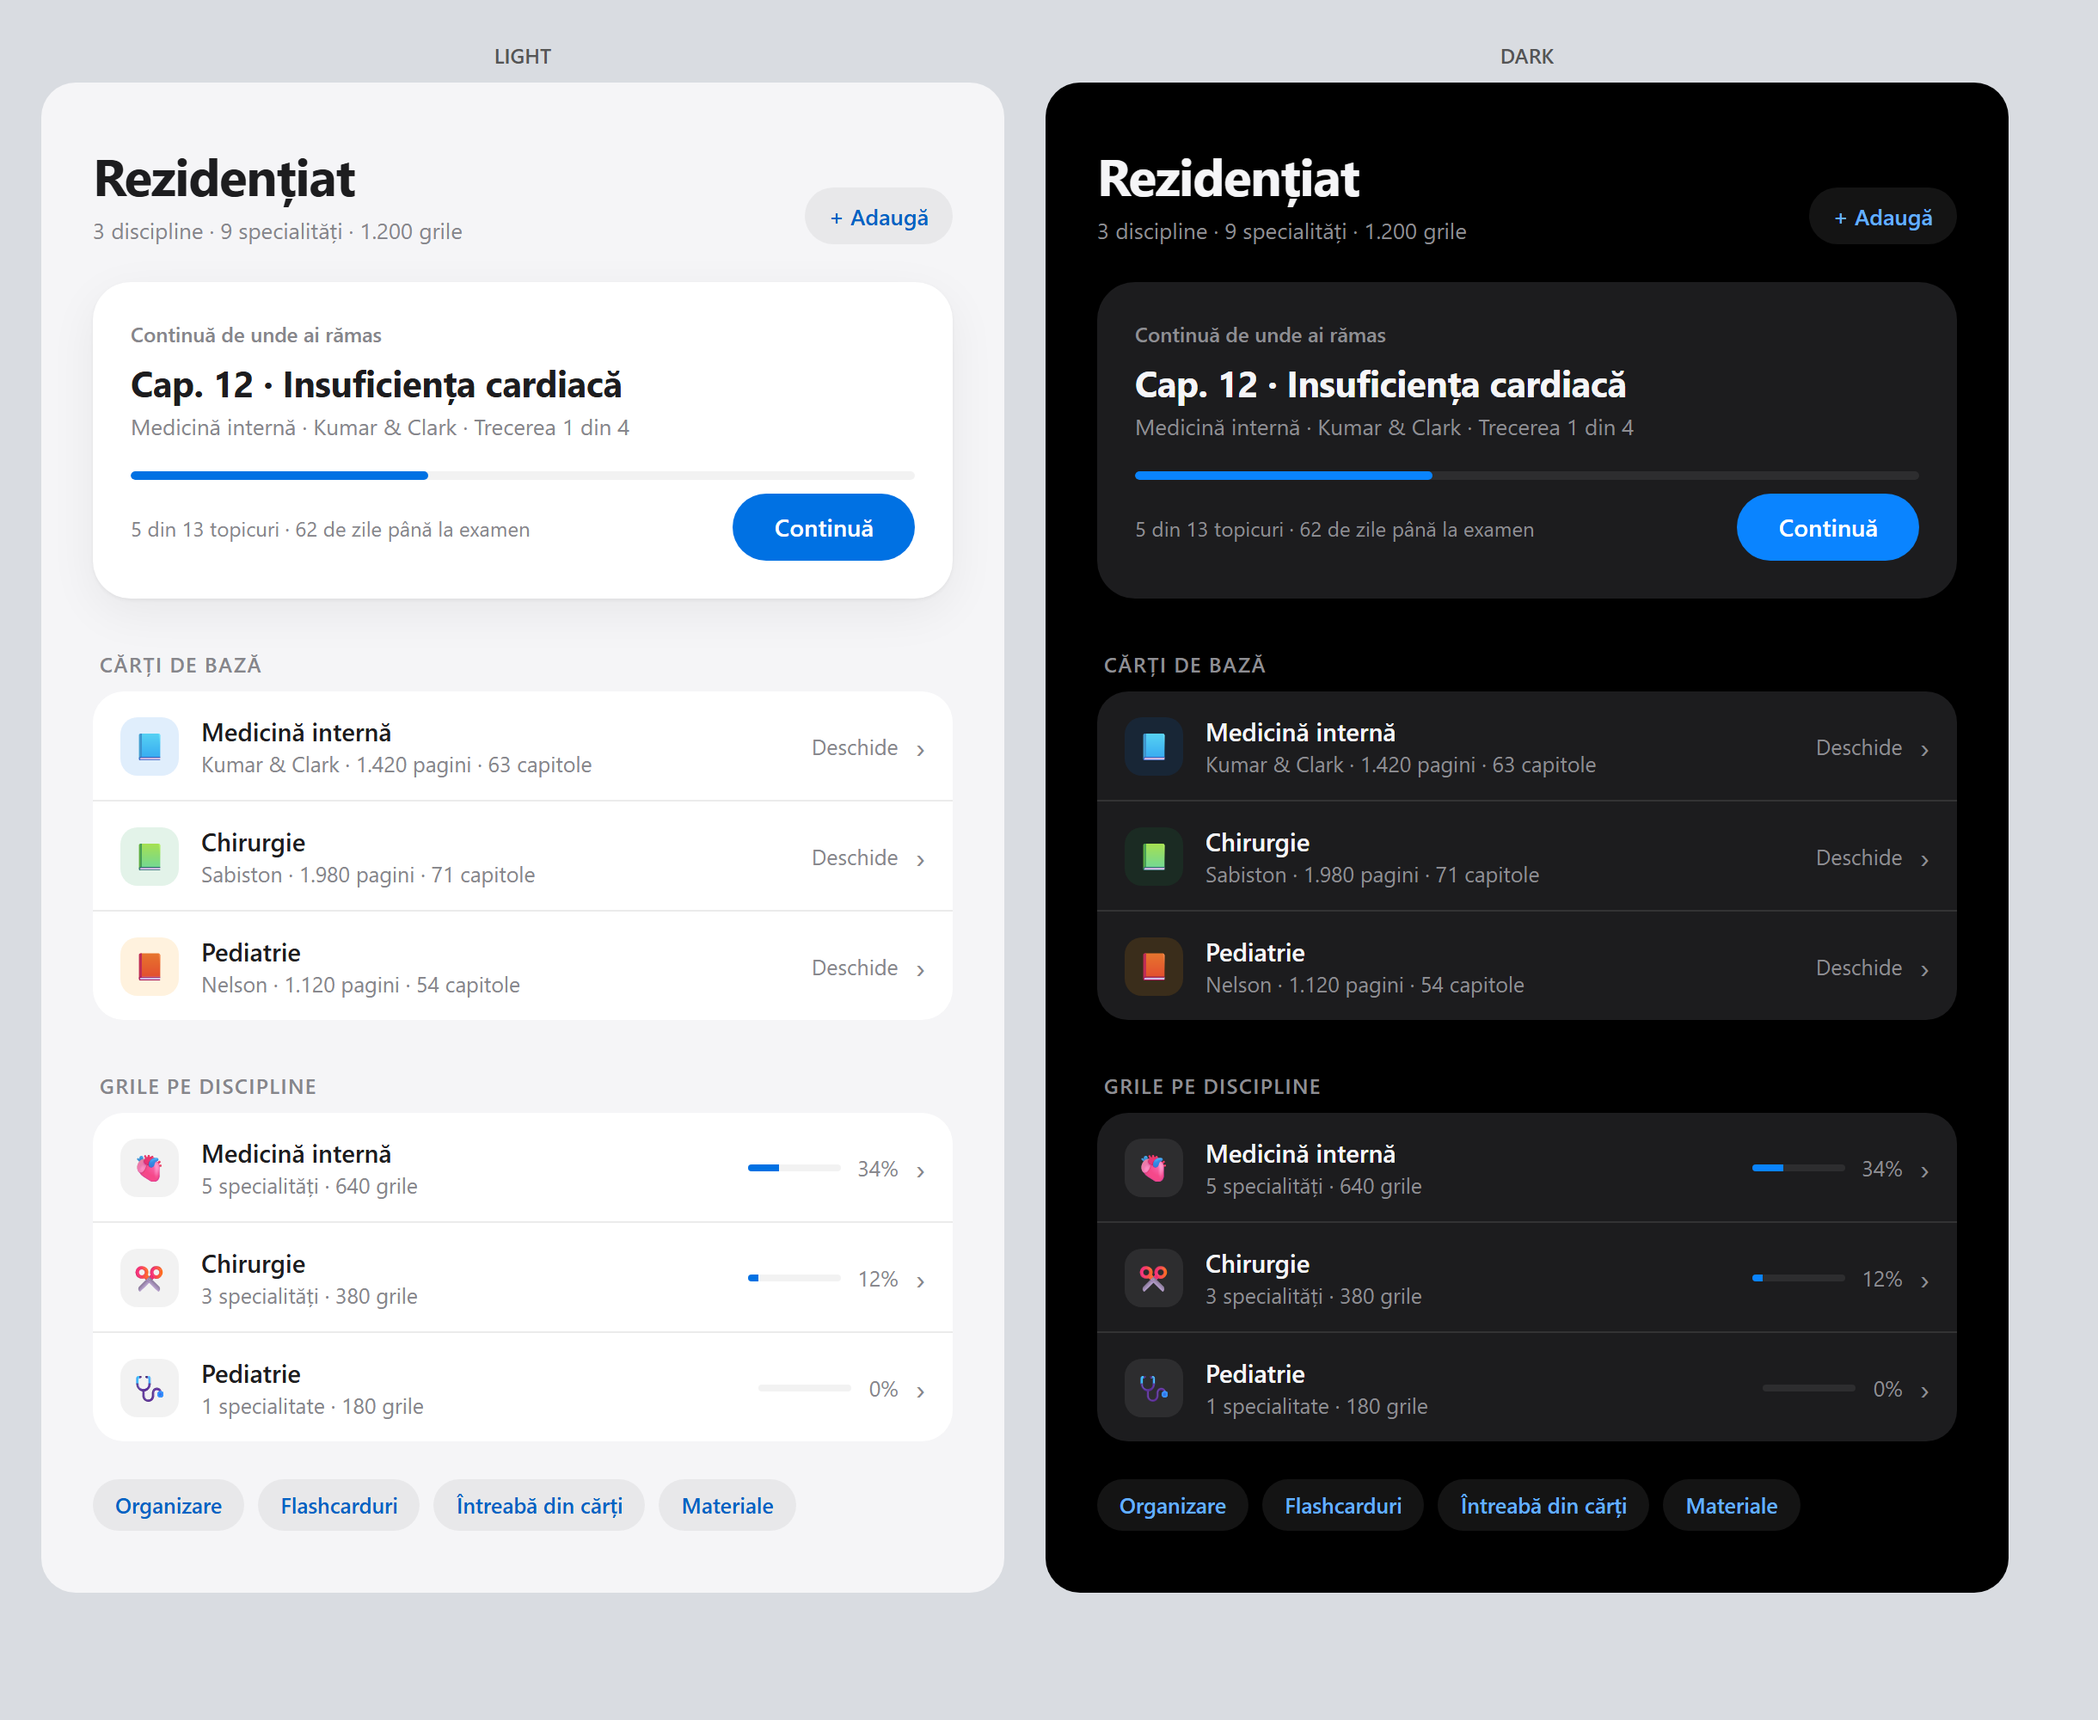
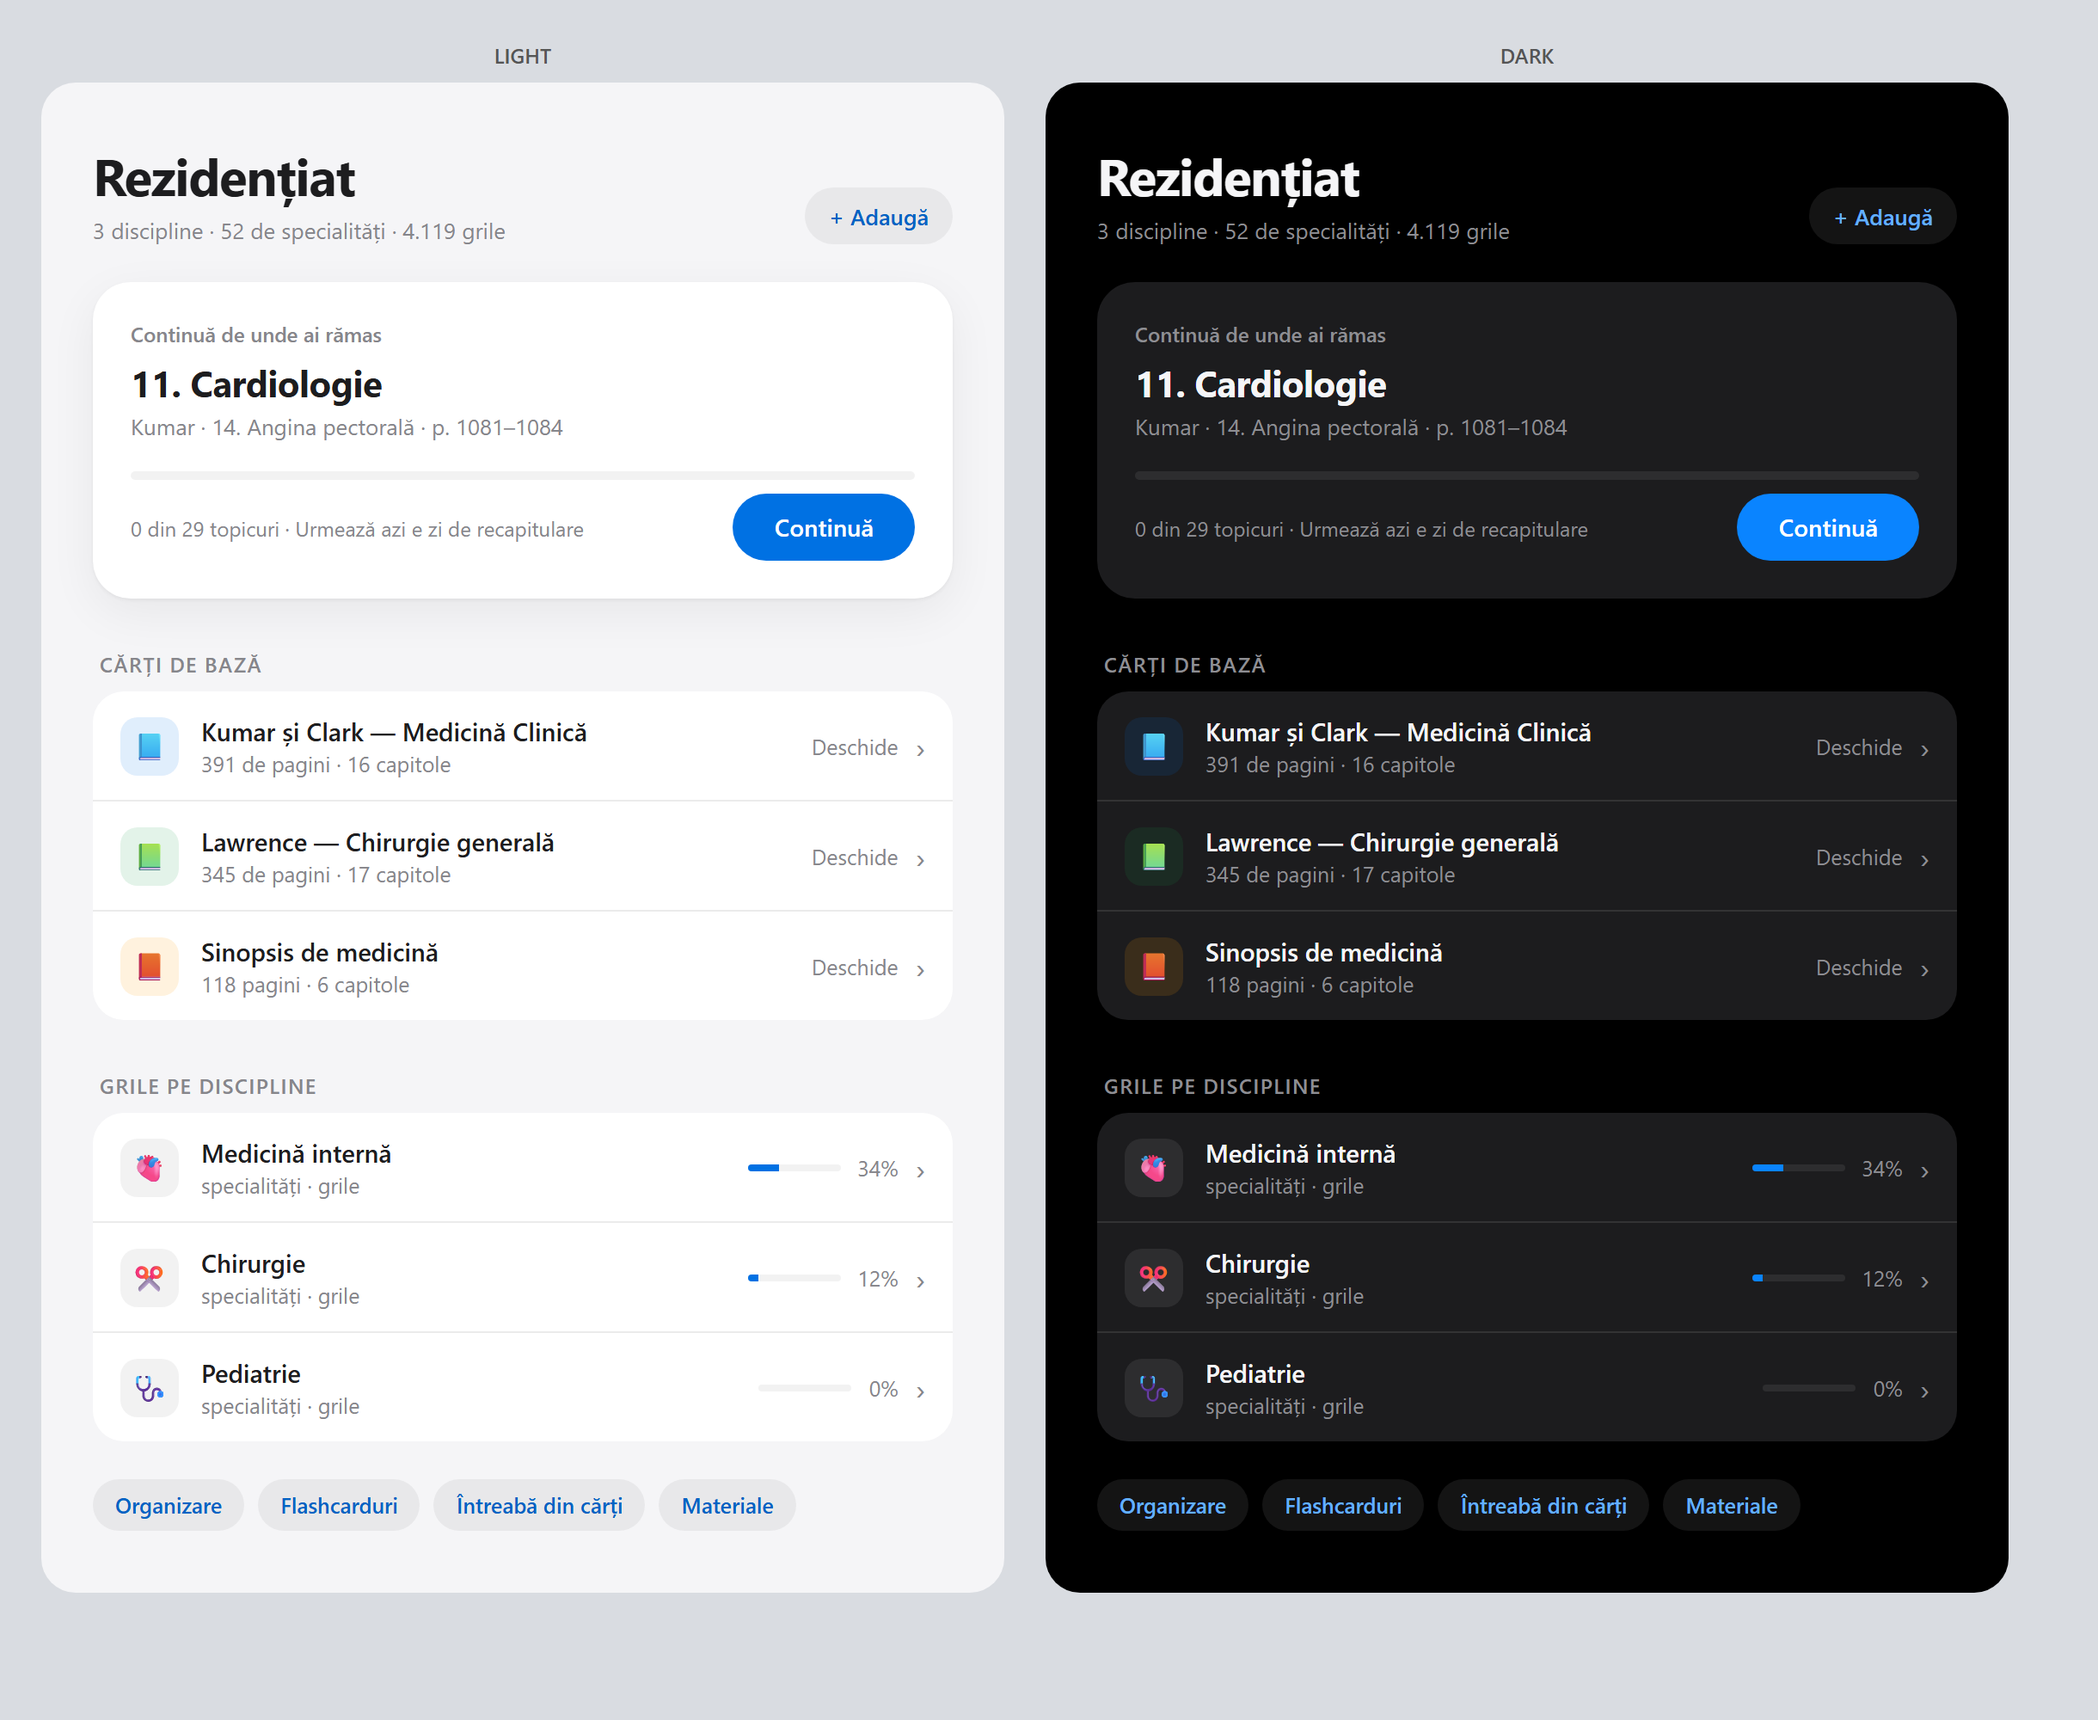
docs(preview): mockup Rezidențiat cu datele reale

diff --git a/previews/rezidentiat-1.4/mockup.html b/previews/rezidentiat-1.4/mockup.html
@@ -12,7 +12,7 @@ h1{font-size:30px;font-weight:700;letter-spacing:-.02em}
 .eyebrow{font-size:12px;color:var(--t3);font-weight:500}
 .hero h2{font-size:21px;font-weight:650;letter-spacing:-.01em;margin:6px 0 3px}
 .hero p{font-size:13px;color:var(--t3)}
-.bar{height:5px;border-radius:9px;background:var(--fill);margin:18px 0 8px;overflow:hidden}.bar i{display:block;height:100%;width:38%;background:var(--acc);border-radius:9px}
+.bar{height:5px;border-radius:9px;background:var(--fill);margin:18px 0 8px;overflow:hidden}.bar i{display:block;height:100%;width:0%;background:var(--acc);border-radius:9px}
 .row{display:flex;align-items:center;justify-content:space-between;gap:12px}
 .row small{font-size:12px;color:var(--t3)}
 .cta{background:var(--acc);color:#fff;font-weight:600;font-size:14px;border-radius:99px;padding:10px 24px}
@@ -31,55 +31,55 @@ h3{font-size:12px;font-weight:600;letter-spacing:.06em;text-transform:uppercase;
 .cap{font:600 12px system-ui;text-align:center;color:#555;margin-bottom:8px}
 </style></head><body>
 <div><div class="cap">LIGHT</div><div class="pane">
-<header><div><h1>Rezidențiat</h1><div class="sub">3 discipline · 9 specialități · 1.200 grile</div></div><div class="ghost">+ Adaugă</div></header>
+<header><div><h1>Rezidențiat</h1><div class="sub">3 discipline · 52 de specialități · 4.119 grile</div></div><div class="ghost">+ Adaugă</div></header>
 
 <section class="hero">
  <div class="eyebrow">Continuă de unde ai rămas</div>
- <h2>Cap. 12 · Insuficiența cardiacă</h2>
- <p>Medicină internă · Kumar &amp; Clark · Trecerea 1 din 4</p>
+ <h2>11. Cardiologie</h2>
+ <p>Kumar · 14. Angina pectorală · p. 1081–1084</p>
  <div class="bar"><i></i></div>
- <div class="row"><small>5 din 13 topicuri · 62 de zile până la examen</small><div class="cta">Continuă</div></div>
+ <div class="row"><small>0 din 29 topicuri · Urmează azi e zi de recapitulare</small><div class="cta">Continuă</div></div>
 </section>
 
 <h3>Cărți de bază</h3>
 <div class="list">
- <div class="item"><div class="ic" style="background:#0071e31f">📘</div><div><b>Medicină internă</b><span class="d">Kumar &amp; Clark · 1.420 pagini · 63 capitole</span></div><div class="go">Deschide <span class="chev">›</span></div></div>
- <div class="item"><div class="ic" style="background:#1a9b4b1f">📗</div><div><b>Chirurgie</b><span class="d">Sabiston · 1.980 pagini · 71 capitole</span></div><div class="go">Deschide <span class="chev">›</span></div></div>
- <div class="item"><div class="ic" style="background:#ff9f0a22">📙</div><div><b>Pediatrie</b><span class="d">Nelson · 1.120 pagini · 54 capitole</span></div><div class="go">Deschide <span class="chev">›</span></div></div>
+ <div class="item"><div class="ic" style="background:#0071e31f">📘</div><div><b>Kumar și Clark — Medicină Clinică</b><span class="d">391 de pagini · 16 capitole</span></div><div class="go">Deschide <span class="chev">›</span></div></div>
+ <div class="item"><div class="ic" style="background:#1a9b4b1f">📗</div><div><b>Lawrence — Chirurgie generală</b><span class="d">345 de pagini · 17 capitole</span></div><div class="go">Deschide <span class="chev">›</span></div></div>
+ <div class="item"><div class="ic" style="background:#ff9f0a22">📙</div><div><b>Sinopsis de medicină</b><span class="d">118 pagini · 6 capitole</span></div><div class="go">Deschide <span class="chev">›</span></div></div>
 </div>
 
 <h3>Grile pe discipline</h3>
 <div class="list">
- <div class="item"><div class="ic" style="background:var(--fill)">🫀</div><div><b>Medicină internă</b><span class="d">5 specialități · 640 grile</span></div><div class="go"><div class="mini"><i style="width:34%"></i></div>34%<span class="chev">›</span></div></div>
- <div class="item"><div class="ic" style="background:var(--fill)">✂</div><div><b>Chirurgie</b><span class="d">3 specialități · 380 grile</span></div><div class="go"><div class="mini"><i style="width:12%"></i></div>12%<span class="chev">›</span></div></div>
- <div class="item"><div class="ic" style="background:var(--fill)">🩺</div><div><b>Pediatrie</b><span class="d">1 specialitate · 180 grile</span></div><div class="go"><div class="mini"><i style="width:0%"></i></div>0%<span class="chev">›</span></div></div>
+ <div class="item"><div class="ic" style="background:var(--fill)">🫀</div><div><b>Medicină internă</b><span class="d">specialități · grile</span></div><div class="go"><div class="mini"><i style="width:34%"></i></div>34%<span class="chev">›</span></div></div>
+ <div class="item"><div class="ic" style="background:var(--fill)">✂</div><div><b>Chirurgie</b><span class="d">specialități · grile</span></div><div class="go"><div class="mini"><i style="width:12%"></i></div>12%<span class="chev">›</span></div></div>
+ <div class="item"><div class="ic" style="background:var(--fill)">🩺</div><div><b>Pediatrie</b><span class="d">specialități · grile</span></div><div class="go"><div class="mini"><i style="width:0%"></i></div>0%<span class="chev">›</span></div></div>
 </div>
 
 <div class="more"><span class="chip">Organizare</span><span class="chip">Flashcarduri</span><span class="chip">Întreabă din cărți</span><span class="chip">Materiale</span></div>
 </div></div>
 <div><div class="cap">DARK</div><div class="pane dark">
-<header><div><h1>Rezidențiat</h1><div class="sub">3 discipline · 9 specialități · 1.200 grile</div></div><div class="ghost">+ Adaugă</div></header>
+<header><div><h1>Rezidențiat</h1><div class="sub">3 discipline · 52 de specialități · 4.119 grile</div></div><div class="ghost">+ Adaugă</div></header>
 
 <section class="hero">
  <div class="eyebrow">Continuă de unde ai rămas</div>
- <h2>Cap. 12 · Insuficiența cardiacă</h2>
- <p>Medicină internă · Kumar &amp; Clark · Trecerea 1 din 4</p>
+ <h2>11. Cardiologie</h2>
+ <p>Kumar · 14. Angina pectorală · p. 1081–1084</p>
  <div class="bar"><i></i></div>
- <div class="row"><small>5 din 13 topicuri · 62 de zile până la examen</small><div class="cta">Continuă</div></div>
+ <div class="row"><small>0 din 29 topicuri · Urmează azi e zi de recapitulare</small><div class="cta">Continuă</div></div>
 </section>
 
 <h3>Cărți de bază</h3>
 <div class="list">
- <div class="item"><div class="ic" style="background:#0071e31f">📘</div><div><b>Medicină internă</b><span class="d">Kumar &amp; Clark · 1.420 pagini · 63 capitole</span></div><div class="go">Deschide <span class="chev">›</span></div></div>
- <div class="item"><div class="ic" style="background:#1a9b4b1f">📗</div><div><b>Chirurgie</b><span class="d">Sabiston · 1.980 pagini · 71 capitole</span></div><div class="go">Deschide <span class="chev">›</span></div></div>
- <div class="item"><div class="ic" style="background:#ff9f0a22">📙</div><div><b>Pediatrie</b><span class="d">Nelson · 1.120 pagini · 54 capitole</span></div><div class="go">Deschide <span class="chev">›</span></div></div>
+ <div class="item"><div class="ic" style="background:#0071e31f">📘</div><div><b>Kumar și Clark — Medicină Clinică</b><span class="d">391 de pagini · 16 capitole</span></div><div class="go">Deschide <span class="chev">›</span></div></div>
+ <div class="item"><div class="ic" style="background:#1a9b4b1f">📗</div><div><b>Lawrence — Chirurgie generală</b><span class="d">345 de pagini · 17 capitole</span></div><div class="go">Deschide <span class="chev">›</span></div></div>
+ <div class="item"><div class="ic" style="background:#ff9f0a22">📙</div><div><b>Sinopsis de medicină</b><span class="d">118 pagini · 6 capitole</span></div><div class="go">Deschide <span class="chev">›</span></div></div>
 </div>
 
 <h3>Grile pe discipline</h3>
 <div class="list">
- <div class="item"><div class="ic" style="background:var(--fill)">🫀</div><div><b>Medicină internă</b><span class="d">5 specialități · 640 grile</span></div><div class="go"><div class="mini"><i style="width:34%"></i></div>34%<span class="chev">›</span></div></div>
- <div class="item"><div class="ic" style="background:var(--fill)">✂</div><div><b>Chirurgie</b><span class="d">3 specialități · 380 grile</span></div><div class="go"><div class="mini"><i style="width:12%"></i></div>12%<span class="chev">›</span></div></div>
- <div class="item"><div class="ic" style="background:var(--fill)">🩺</div><div><b>Pediatrie</b><span class="d">1 specialitate · 180 grile</span></div><div class="go"><div class="mini"><i style="width:0%"></i></div>0%<span class="chev">›</span></div></div>
+ <div class="item"><div class="ic" style="background:var(--fill)">🫀</div><div><b>Medicină internă</b><span class="d">specialități · grile</span></div><div class="go"><div class="mini"><i style="width:34%"></i></div>34%<span class="chev">›</span></div></div>
+ <div class="item"><div class="ic" style="background:var(--fill)">✂</div><div><b>Chirurgie</b><span class="d">specialități · grile</span></div><div class="go"><div class="mini"><i style="width:12%"></i></div>12%<span class="chev">›</span></div></div>
+ <div class="item"><div class="ic" style="background:var(--fill)">🩺</div><div><b>Pediatrie</b><span class="d">specialități · grile</span></div><div class="go"><div class="mini"><i style="width:0%"></i></div>0%<span class="chev">›</span></div></div>
 </div>
 
 <div class="more"><span class="chip">Organizare</span><span class="chip">Flashcarduri</span><span class="chip">Întreabă din cărți</span><span class="chip">Materiale</span></div>
